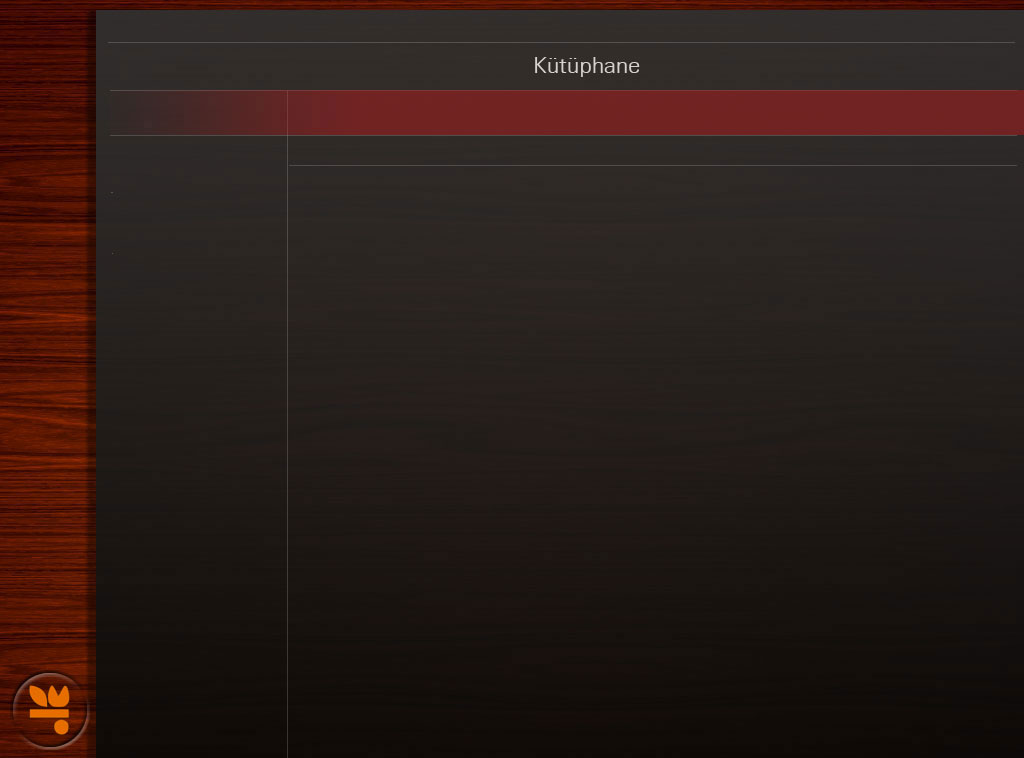
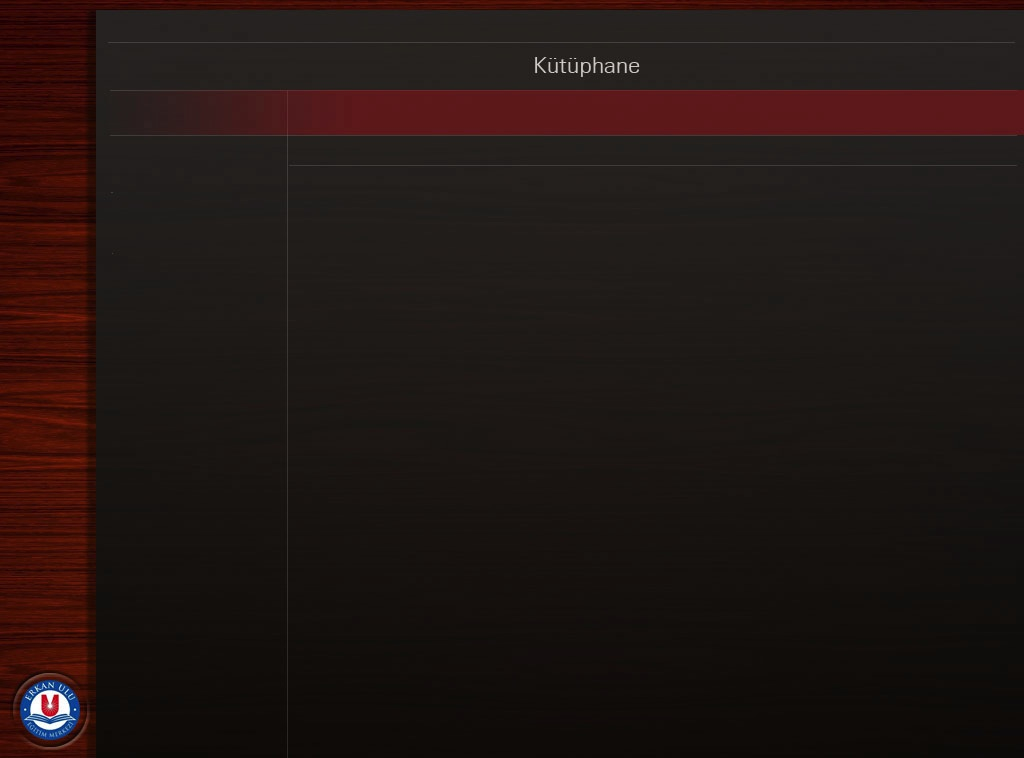
- Library BG images are updated - Acceleration event updated (angle updated from 0.8 to 0.7)

diff --git a/TEA_iPad/LibraryView.m b/TEA_iPad/LibraryView.m
@@ -281,7 +281,7 @@
 - (void)accelerometer:(UIAccelerometer *)accelerometer didAccelerate:(UIAcceleration *)acceleration
 {
 
-    if (acceleration.z >= 0.8 && !screenClosed)
+    if (acceleration.z >= 0.7 && !screenClosed)
     {
         [self.view addSubview:blackScreen];
     }
